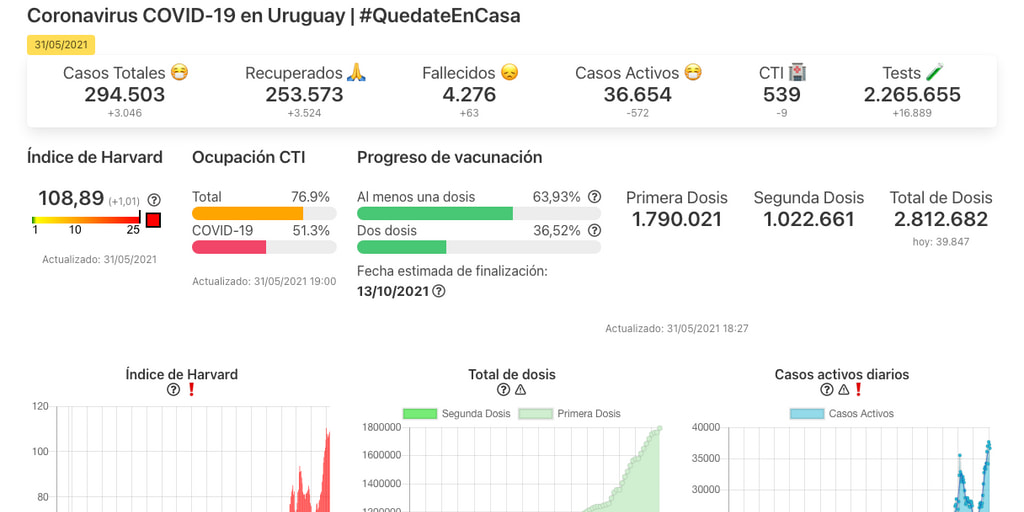
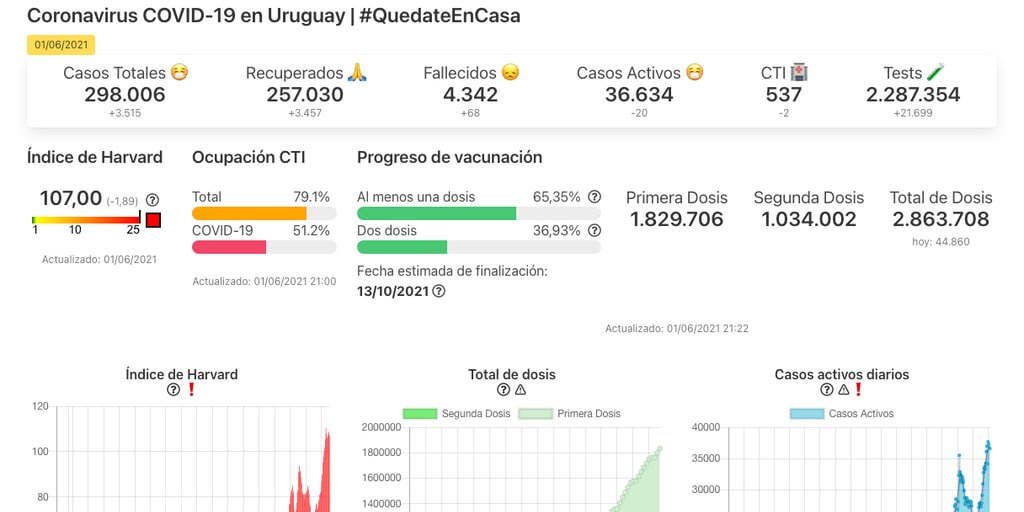
updated uruguay

diff --git a/test/test-data.js b/test/test-data.js
@@ -235,6 +235,11 @@ describe('Test data', function () {
                                 totalDeaths--;
                             }
 
+                            // two deaths were removed on 2021-06-01, but it wasn't informed which ones
+                            if (date.getTime() == new Date("2021-06-01" + DATE_DEFAULT_TIME).getTime()) {
+                                totalDeaths -= 2;
+                            }
+
                             deathHistory.push({ date: date, deaths: totalDeaths });
                         }
                     }
